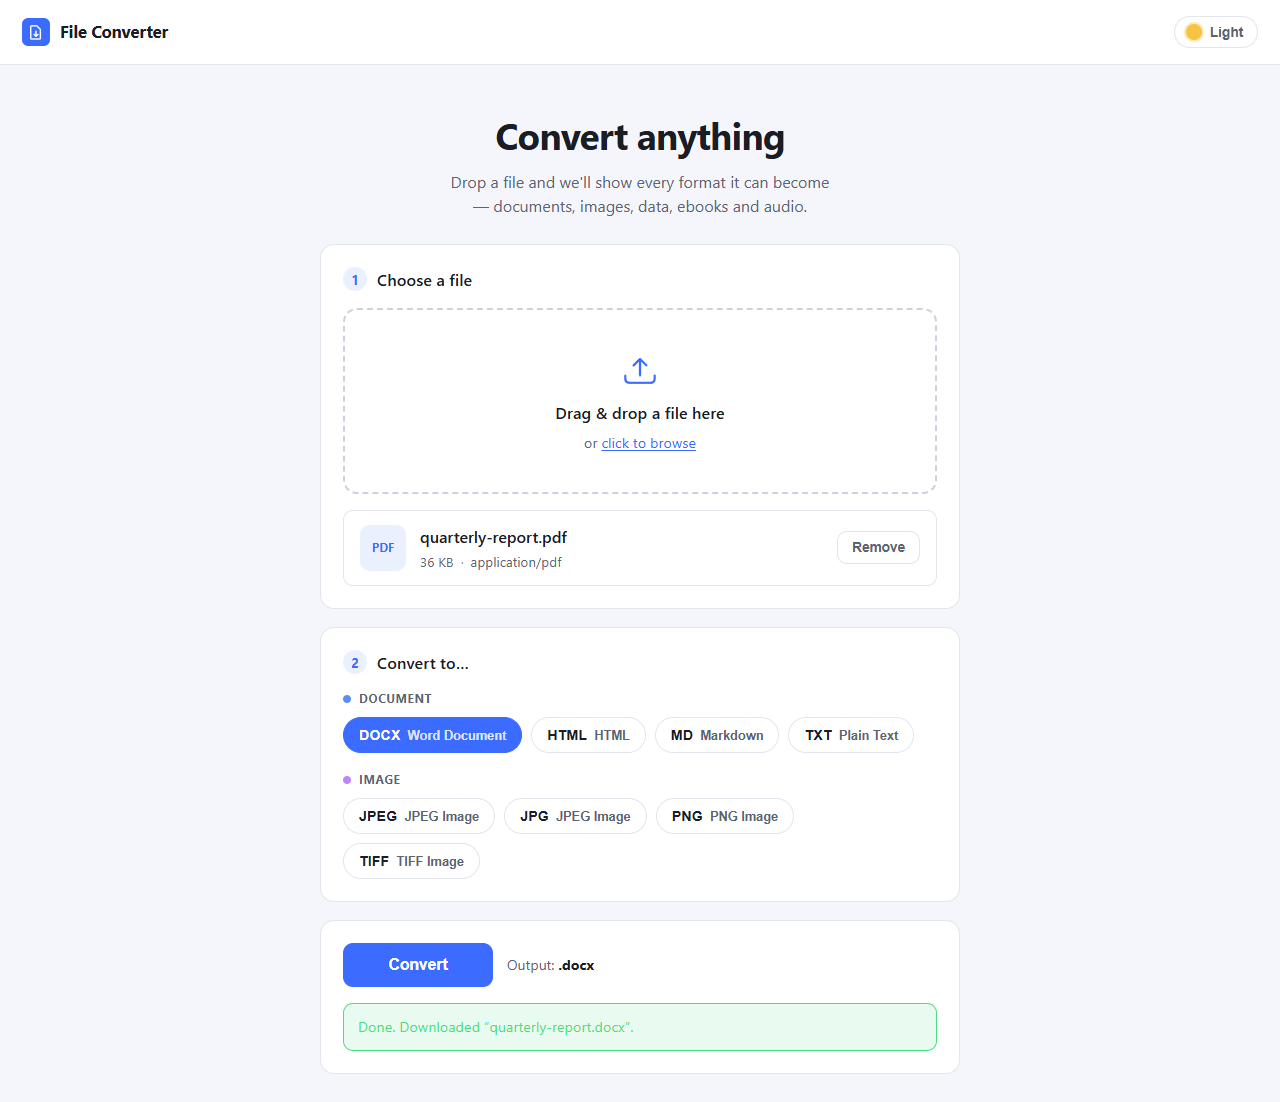
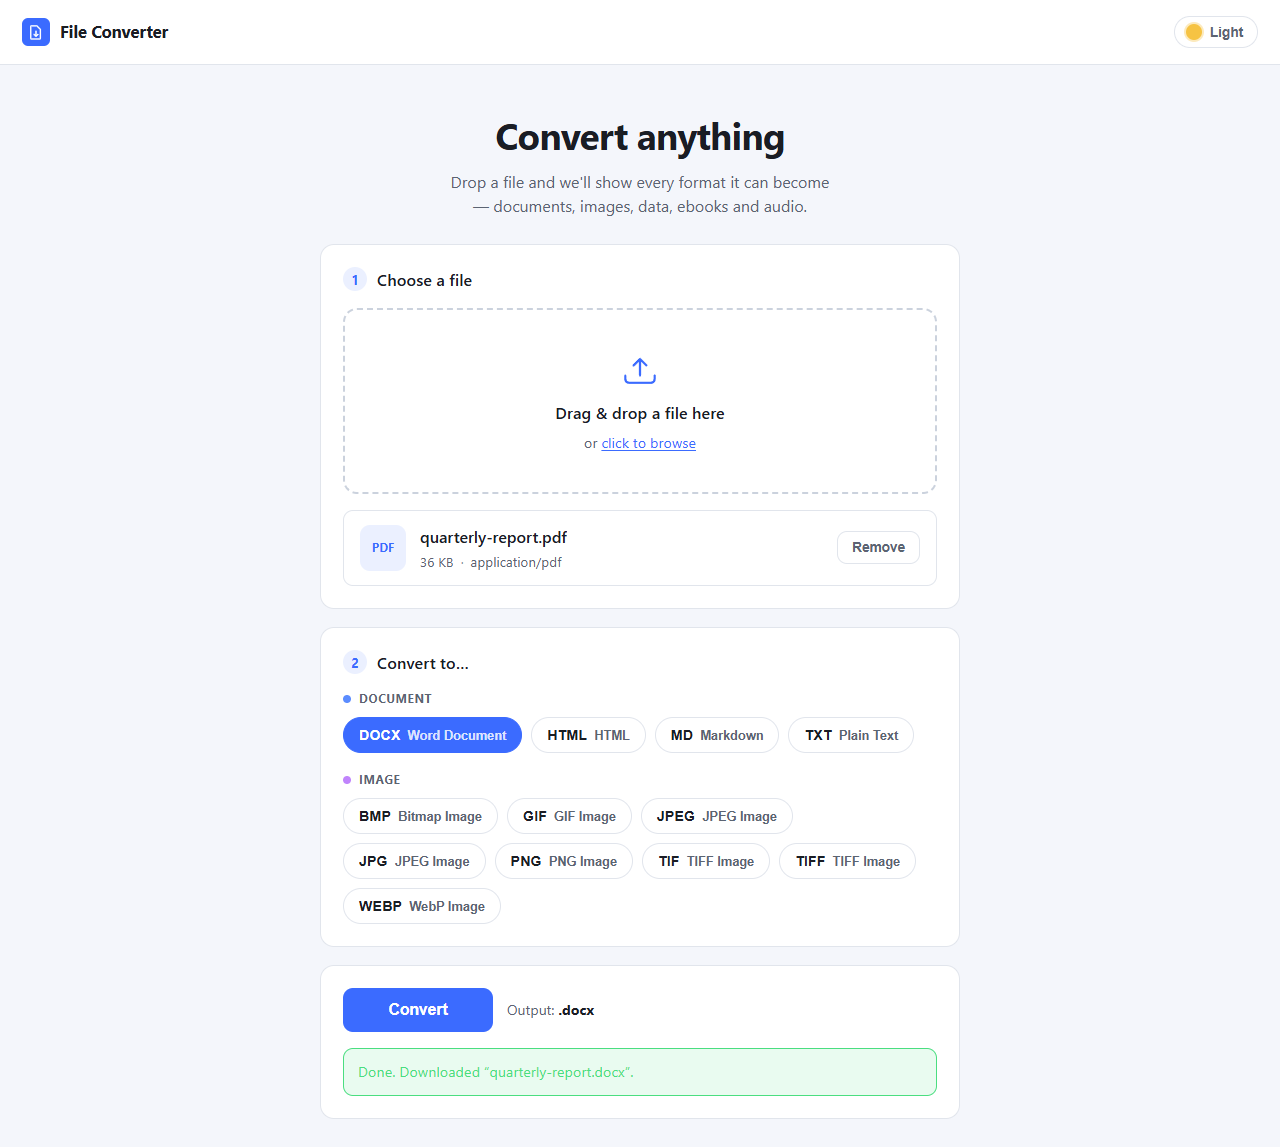
Update the README for the sandbox, non-root image, lint and CI
- Drop the known issues that are fixed: leaked outputs and LibreOffice
  profiles, the false "Conversion failed" for .json, the HTML 413 page,
  pandoc without --sandbox and the root container.
- Document what the security posture now is and isn't, DEMO_PROXY_HOPS,
  PORT, the ./data default, pinned dependencies, lint, CI and the
  dependency upgrade steps.
- Recount the pairs (319: PDF now converts to every raster format) and
  retake the PDF -> DOCX screenshot, which showed only four image targets.
- Point the highlights and structure tree at the fixup package, SPEC.md,
  pyproject.toml and the workflow.

diff --git a/README.md b/README.md
@@ -2,7 +2,7 @@
 
 Drop a file, see every format it can become, download the result: one self-hosted web app for documents, images, data, ebooks and audio.
 
-File Converter puts Pandoc, LibreOffice, Calibre, ffmpeg and a few Python libraries behind one small Flask API and a drag-and-drop page, so you don't have to remember which tool converts what. The Docker image installs all of them. It is for people who would rather not upload their files to an online converter, and it is built for running on your own machine or a trusted network. It covers 38 file extensions and 315 source → target pairs, and its PDF → Word path repairs several kinds of layout damage that raw pdf2docx output produces.
+File Converter puts Pandoc, LibreOffice, Calibre, ffmpeg and a few Python libraries behind one small Flask API and a drag-and-drop page, so you don't have to remember which tool converts what. The Docker image installs all of them. It is for people who would rather not upload their files to an online converter, and it is built for running on your own machine or a trusted network. It covers 38 file extensions and 319 source → target pairs, and its PDF → Word path repairs several kinds of layout damage that raw pdf2docx output produces.
 
 ![File Converter in the dark theme: harbor-sunset.png was dropped in, the page lists PDF plus seven image targets, WEBP is selected, and a green banner reads Done. Downloaded harbor-sunset.webp](docs/screenshot.png)
 
@@ -17,43 +17,44 @@ File Converter puts Pandoc, LibreOffice, Calibre, ffmpeg and a few Python librar
 - [Getting started](#getting-started)
 - [API](#api)
 - [Configuration](#configuration)
-- [Tests](#tests)
-- [Security and known issues](#security-and-known-issues)
+- [Tests, lint and CI](#tests-lint-and-ci)
+- [Security and limitations](#security-and-limitations)
 - [License](#license)
 - [Author](#author)
 
 ## Features
 
-- **Drag and drop or browse.** The page offers only the targets the server has registered for that file's extension, grouped by family.
-- **38 extensions, 315 conversion pairs.** Both counts come from `converters.matrix()`, and aliases such as `jpg`/`jpeg` and `yml`/`yaml` are counted separately.
+- **Drag and drop or browse.** The page offers only the targets the server has registered for that file's extension, grouped by family, and refuses a file over the upload cap before sending it.
+- **38 extensions, 319 conversion pairs.** Both counts come from `converters.matrix()`, and aliases such as `jpg`/`jpeg` and `yml`/`yaml` are counted separately.
 - **PDF → DOCX with layout repair.** Repeated letterheads and footers become real Word headers and footers, with page numbers turned into `PAGE`/`NUMPAGES` fields. Side-by-side rows become tab stops, ruled tables keep their drawn column widths, and merged list lines are split again. When LibreOffice is installed, documents of up to 50 pages are re-rendered to check that no page spills onto an extra one.
-- **Clear errors instead of broken output.** PDF → DOCX rejects password-protected PDFs, and scanned PDFs with no text layer, before it starts. A missing engine is named in the error.
+- **Clear errors instead of broken output.** PDF → DOCX rejects password-protected PDFs, and scanned PDFs with no text layer, before it starts. A missing engine or library is named in the error. Every `/convert` error is JSON, and an unexpected one returns a generic message while the details go to the server log.
+- **Nothing left on disk.** The upload and the converted file are deleted as soon as the download finishes or the conversion fails.
 - **Small JSON API** (`/api/formats`, `/convert`, `/health`) that works from `curl`. `/health` and the page footer show a build stamp.
 - **Light and dark themes**, keyboard support (arrow keys move between format chips; Enter or Space opens the file picker), and a skip link.
 - **Opt-in `DEMO_MODE`.** It adds a per-IP hourly limit, a daily budget, a smaller upload cap and blocked types.
 
-![PDF to DOCX in the light theme: quarterly-report.pdf was dropped in, the page lists DOCX, HTML, Markdown and TXT under Document and JPEG, JPG, PNG and TIFF under Image, DOCX is selected, and a green banner confirms quarterly-report.docx was downloaded](docs/screenshot-pdf-to-docx.png)
+![PDF to DOCX in the light theme: quarterly-report.pdf was dropped in, the page lists DOCX, HTML, Markdown and TXT under Document and eight raster formats under Image, DOCX is selected, and a green banner confirms quarterly-report.docx was downloaded](docs/screenshot-pdf-to-docx.png)
 
 ## Supported conversions
 
 | Family | Formats | Engine |
 |---|---|---|
 | Documents | md, markdown, rst, txt, html, htm, docx, odt, rtf, tex, latex, epub: any ↔ any; all → pdf | Pandoc; WeasyPrint as the PDF engine; LibreOffice for docx/odt/rtf → pdf when installed |
-| PDF as a source | pdf → txt, md, html, docx; pdf → png, jpg, jpeg, tiff (first page) | PyMuPDF; pdf2docx plus the layout fixup |
+| PDF as a source | pdf → txt, md, html, docx; pdf → png, jpg, jpeg, webp, gif, bmp, tiff, tif (first page) | PyMuPDF; pdf2docx plus the layout fixup |
 | Images | png, jpg, jpeg, webp, gif, bmp, tiff, tif: any ↔ any; svg → any raster; raster → pdf | Pillow, CairoSVG |
 | Data | csv, tsv, json, xlsx, xls, yaml, yml → csv, tsv, json, xlsx, yaml, yml; csv, tsv, json, xlsx, xls → html, md tables | pandas, openpyxl, xlrd, PyYAML |
 | Ebooks | epub, mobi, azw3, fb2: any ↔ any; mobi, azw3, fb2 → pdf | Calibre (`ebook-convert`) |
 | Audio | mp3, wav, ogg, flac, m4a, aac: any ↔ any | ffmpeg |
 
-`xls` and `svg` are source-only. Images, data and PDF extraction need no system binaries.
+`xls` and `svg` are source-only, and only the first worksheet of a workbook is read. CSV and TSV saved by Excel on Windows (Windows-1252) and JSON or YAML with a UTF-8 byte-order mark are accepted. Images, data and PDF extraction need no system binaries.
 
 ## Engineering highlights
 
 1. **A registry is the single source of truth.** Each family module calls `register()` / `register_many()` at import time. The Flask layer never hard-codes a format: it asks `matrix()` what is possible and `get_converter()` for the handler, and the UI renders whatever `/api/formats` returns. Adding a format means writing one handler, `fn(in_path, out_path)`, and one registration line. See [`converters/registry.py`](converters/registry.py).
-2. **External tools have one exit point.** Every call to pandoc, soffice, ebook-convert and ffmpeg goes through `engine.run()`. It passes an argument list (never `shell=True`), enforces a timeout (300 s, or 240 s for LibreOffice), and turns a non-zero exit into a `ConversionError` that carries the tool's stderr. Each LibreOffice call gets its own profile directory, so parallel gunicorn workers don't fight over the profile lock. See [`converters/engine.py`](converters/engine.py).
-3. **Upload names never become paths.** The source extension must be a known format and the pair must be registered before anything is written. On disk the job is a random UUID, and the user's filename survives only as the download name, after `secure_filename`. See [`web_app.py`](web_app.py).
-4. **The PDF → DOCX repair is geometry-driven.** PyMuPDF reads the source layout, and python-docx repairs what pdf2docx produced. A verify-and-retry loop then re-renders the DOCX with LibreOffice at up to three spacing levels, the first one untouched, and stops as soon as the page counts match. If none matches, it keeps the closest. Each layout that once broke is a generated PDF fixture with its own test. See [`converters/pdf_docx_fixup.py`](converters/pdf_docx_fixup.py), [`converters/documents.py`](converters/documents.py), [`tests/pdf_fixtures.py`](tests/pdf_fixtures.py) and [`tests/test_pdf_layout.py`](tests/test_pdf_layout.py).
-5. **Tests skip rather than fail.** Heavy libraries are imported inside the handlers, so the package still imports when one is missing. Tests that need a missing binary or library skip and give the reason. See [`tests/conftest.py`](tests/conftest.py).
+2. **External tools have one exit point, and uploads can't reach server files.** Every call to pandoc, soffice, ebook-convert and ffmpeg goes through `engine.run()`, which passes an argument list (never `shell=True`), enforces a timeout and turns a non-zero exit into a `ConversionError` that carries the tool's stderr. Pandoc always runs with `--sandbox` and WeasyPrint may only fetch `data:` URIs, so an `<img src="/etc/passwd">`, a LaTeX `\input` or an RST `include` in an upload can't pull a server file into the output; tests prove each case. Each LibreOffice call gets its own profile directory, deleted afterwards. See [`converters/engine.py`](converters/engine.py) and [`tests/test_documents.py`](tests/test_documents.py).
+3. **Upload names never become paths.** The source extension must be a known format and the pair must be registered before anything is written. On disk the job is a random UUID. The user's filename survives only as the download name, with any path part dropped and characters Windows forbids replaced; accents and non-Latin scripts are kept. The file is streamed through the response so that closing it deletes it. See [`web_app.py`](web_app.py).
+4. **The PDF → DOCX repair is geometry-driven.** PyMuPDF reads the source layout, and python-docx repairs what pdf2docx produced, in focused modules for analysis, header/footer bands, columns, tables and paragraphs. Each repair is best-effort: a failure falls back to the unrepaired output and is logged with its traceback. A verify-and-retry loop then re-renders the DOCX with LibreOffice at up to three spacing levels, the first one untouched, and stops as soon as the page counts match. Each layout that once broke is a generated PDF fixture with its own test. See [`converters/pdf_docx_fixup/`](converters/pdf_docx_fixup/), [`converters/documents.py`](converters/documents.py), [`tests/pdf_fixtures.py`](tests/pdf_fixtures.py) and [`tests/test_pdf_layout.py`](tests/test_pdf_layout.py).
+5. **Tests skip rather than fail, and CI runs them all.** Heavy libraries are imported inside the handlers, so the package still imports when one is missing, and tests that need a missing binary skip with the reason. CI runs the suite without engines on every pull request and, on `main`, inside the Docker image, where nothing may skip. See [`tests/conftest.py`](tests/conftest.py) and [`.github/workflows/ci.yml`](.github/workflows/ci.yml).
 
 ## Tech stack and design decisions
 
@@ -63,12 +64,14 @@ flowchart LR
   API --> REG["Registry<br/>converters/registry.py"]
   REG --> H["Family handlers<br/>documents, images, data, ebooks, audio"]
   H --> ENG["engine.run()<br/>argv list + timeout"]
-  ENG --> BIN["pandoc, soffice,<br/>ebook-convert, ffmpeg"]
+  ENG --> BIN["pandoc --sandbox, soffice,<br/>ebook-convert, ffmpeg"]
   H --> LIB["Pillow, CairoSVG, PyMuPDF,<br/>pdf2docx, pandas"]
 ```
 
 - **Flask + gunicorn (2 sync workers, 300 s timeout).** The work is CPU- and subprocess-bound, so each conversion simply runs inside its request.
 - **The best tool for each family.** Pandoc is the text hub, with WeasyPrint as its PDF engine so no TeX install is needed. LibreOffice handles Office → PDF for fidelity, and the image ships Calibri/Cambria-compatible fonts so its pages break the way Word's do.
+- **An unprivileged container.** gunicorn runs as the `converter` user (uid 10001), which can write only to `DATA_DIR`, its home directory and the shared temp directories.
+- **Pinned dependencies.** `requirements.web.txt` pins the direct Python dependencies and pulls in `constraints.txt`, which locks everything they install. Pandoc is the official 3.11 release, pinned by checksum.
 - **Vanilla JS, no build step.** The page loads nothing from third parties. Docker is the main way to run it, because the engines are system binaries.
 
 ```text
@@ -79,21 +82,26 @@ converters/
   registry.py            FORMATS, register(), get_converter(), matrix()
   engine.py              subprocess helpers for pandoc, soffice, ffmpeg, ebook-convert
   documents.py           Pandoc text hub, → PDF, PDF → txt/md/html/docx
-  pdf_docx_fixup.py      PDF → DOCX layout repair
+  pdf_docx_fixup/        PDF → DOCX layout repair, one module per repair
   images.py, data.py,    one module per remaining family
   ebooks.py, audio.py
 templates/, static/      the page, its script and its styles
 tests/                   pytest suite and generated PDF fixtures
 docs/                    screenshots
+app.py                   older desktop Markdown → DOCX tool (see Limitations)
+SPEC.md                  design notes: handler contract, module boundaries, API
 Dockerfile               image with every engine
-requirements.web.txt     runtime Python dependencies (requirements.dev.txt adds pytest)
+requirements.web.txt     pinned runtime dependencies (+ constraints.txt)
+requirements.dev.txt     adds pytest and ruff
+pyproject.toml           ruff and pytest settings
+.github/workflows/ci.yml lint, tests, and the full suite in Docker
 ```
 
 ## Getting started
 
 ### Docker (recommended: every engine included)
 
-Requires Docker (tested with Docker Engine 29.5). The image is about 2.6 GB, since it bundles Pandoc, LibreOffice, Calibre and ffmpeg.
+Requires Docker (tested with Docker Engine 29.5). The image is about 2.5 GB, since it bundles Pandoc, LibreOffice, Calibre and ffmpeg.
 
 ```bash
 git clone https://github.com/jadrianlg16/file-converter.git
@@ -101,29 +109,31 @@ cd file-converter
 docker build -t file-converter . && docker run --rm -p 127.0.0.1:5007:5007 file-converter
 ```
 
-Open <http://localhost:5007>. The port is published on `127.0.0.1` only; see [Security](#security-and-known-issues) before you expose it any wider. The engines come from unpinned Debian packages.
+Open <http://localhost:5007>. The port is published on `127.0.0.1` only; see [Security](#security-and-limitations) before you expose it any wider. LibreOffice, Calibre and ffmpeg come from unpinned Debian packages.
 
 ### Local Python
 
-Requires Python 3.12. To get the families that use them, put `pandoc`, LibreOffice (`soffice`), Calibre (`ebook-convert`) and `ffmpeg` on your `PATH`. Without them, images, data and PDF extraction still work, and other pairs return a clear error. SVG input also needs the Cairo system library.
+Requires Python 3.12. To get the families that use them, put Pandoc 3.11, LibreOffice (`soffice`), Calibre (`ebook-convert`) and `ffmpeg` on your `PATH`. Every pandoc call uses `--sandbox`, which older builds such as Debian's 3.1.11 package can't combine with docx, odt or epub output. Without the engines, images, data and PDF extraction still work, and other pairs return a clear error. SVG input also needs the Cairo system library.
 
 ```bash
-python3.12 -m venv .venv                          # Windows: py -3.12 -m venv .venv
-source .venv/bin/activate                         # Windows PowerShell: .venv\Scripts\Activate.ps1
+python3.12 -m venv .venv          # Windows: py -3.12 -m venv .venv
+source .venv/bin/activate         # Windows PowerShell: .venv\Scripts\Activate.ps1
 pip install -r requirements.web.txt
-DATA_DIR=./data flask --app web_app run --port 5007   # PowerShell: $env:DATA_DIR="data"; flask --app web_app run --port 5007
+flask --app web_app run --port 5007
 ```
 
-Set `DATA_DIR` to a writable folder, because the default, `/app/data`, is the container path. `flask run` listens on `127.0.0.1`. `python web_app.py` also works, but it binds to `0.0.0.0` (every interface).
+Uploads go to `./data` next to `web_app.py` unless `DATA_DIR` says otherwise. `flask run` listens on `127.0.0.1`. `python web_app.py` also works, but it binds to `0.0.0.0` (every interface).
 
 ## API
 
 | Method and path | Request | Response |
 |---|---|---|
 | `GET /` | | The page |
-| `GET /api/formats` | | `{"formats": {"<ext>": {"name", "category", "targets": [{"ext", "name", "category"}]}}}`, plus `"demo"` when `DEMO_MODE=1` |
-| `POST /convert` | multipart `file` + `target` (an extension) | The converted file as an attachment, or `{"error": "..."}` with 400 (bad input or unsupported pair), 403 (blocked by `DEMO_BLOCK`), 422 (conversion failed), 429 (demo limit) or 500/501. An oversized upload gets 413. |
+| `GET /api/formats` | | `{"formats": {"<ext>": {"name", "category", "targets": [{"ext", "name", "category"}]}}, "maxUploadMb": N}`, plus `"demo"` when `DEMO_MODE=1` |
+| `POST /convert` | multipart `file` + `target` (an extension) | The converted file as an attachment with status 200, or `{"error": "..."}` with 400 (bad input or unsupported pair), 403 (blocked by `DEMO_BLOCK`), 413 (file too large), 422 (conversion failed), 429 (demo limit), 500 (unexpected error) or 501 |
 | `GET /health` | | `{"status": "ok", "formats": <number of source formats>, "build": "<stamp>"}` |
+
+Any 2xx from `/convert` is the file, including `.json` outputs, which are served as `application/json`.
 
 ```bash
 curl -F file=@notes.md -F target=pdf -o notes.pdf http://localhost:5007/convert
@@ -135,41 +145,49 @@ Every variable is optional.
 
 | Variable | Default | Purpose |
 |---|---|---|
-| `DATA_DIR` | `/app/data` | Working folder for uploads, outputs and the demo counter database. Set it when running outside Docker. |
+| `DATA_DIR` | `./data` next to `web_app.py` (the image sets `/app/data`) | Working folder for in-flight uploads and outputs, and the demo counter database. |
 | `MAX_UPLOAD_MB` | `200` | Upload cap in MB. Ignored when `DEMO_MODE=1`. |
+| `PORT` | `5007` | Port for `python web_app.py` only; the image always runs gunicorn on 5007. |
 | `DEMO_MODE` | off | `1` turns on the demo limits below. |
 | `DEMO_MAX_UPLOAD_MB` | `10` | Upload cap in MB while demo mode is on. |
 | `DEMO_RATE_PER_HOUR` | `5` | Conversions per client IP per rolling hour. |
 | `DEMO_DAILY_BUDGET` | `200` | Conversions per UTC day, all clients combined. |
 | `DEMO_BLOCK` | empty | Comma-separated extensions refused as a source or a target, e.g. `wav,flac`. |
 | `DEMO_REPO_URL` | `https://github.com/` | Link shown in limit messages and the demo banner. |
+| `DEMO_PROXY_HOPS` | `1` | Reverse proxies in front of the app that append to `X-Forwarded-For`; `0` ignores the header. |
 
 Demo counters live in SQLite under `DATA_DIR`, so gunicorn workers share them and they survive restarts.
 
-## Tests
+## Tests, lint and CI
 
 ```bash
 pip install -r requirements.dev.txt
 pytest -rs
+ruff check . && ruff format --check .
 ```
 
-The suite covers the registry wiring, the `/health` and `/api/formats` endpoints, each converter family against small fixtures generated inside the tests, the PDF → DOCX layout repairs, and the demo guard. Tests that need `pandoc`, `soffice`, `ebook-convert` or `ffmpeg` skip when the binary is missing, and `-rs` prints each reason (for example `pandoc not installed`). To run all of them, use the image, which has every engine:
+The suite covers the registry wiring, the HTTP layer (status codes, JSON errors, download names, file cleanup), each converter family against small fixtures generated inside the tests, the pandoc sandbox, the PDF → DOCX layout repairs, and the demo guard. Tests that need `pandoc`, `soffice`, `ebook-convert` or `ffmpeg` skip when the binary is missing, and `-rs` prints each reason (for example `pandoc not installed`). To run all of them, use the image, which has every engine:
 
 ```bash
-docker run --rm -v "$PWD/tests:/app/tests:ro" file-converter sh -c "pip install -q pytest && python -m pytest -q tests"
+docker run --rm -v "$PWD/tests:/app/tests:ro" file-converter sh -c "pip install -q --user --no-warn-script-location pytest==9.1.1 && python -m pytest -q -rs -p no:cacheprovider tests"
 ```
 
-## Security and known issues
+[`ci.yml`](.github/workflows/ci.yml) runs the install, `ruff` and `pytest` commands above on every pull request and push to `main`. On pushes to `main`, and when started by hand, it also builds the image, runs the full suite inside it and fails if any test skipped.
+
+To upgrade a dependency, change its pin in `requirements.web.txt`, install `requirements.dev.txt` into a fresh venv, run the suite, and regenerate `constraints.txt` from that venv's `pip freeze`, leaving out the packages pinned in the requirements files.
+
+## Security and limitations
 
 **This app is not hardened for untrusted uploads. Run it locally or on a trusted network, and don't expose it to the internet as-is.**
 
-- **Trust boundary.** Pandoc runs without `--sandbox` and the container runs as root, so treat every upload as trusted input.
-- **`DEMO_MODE` limits volume, not risk.** It caps rate, daily volume, upload size and file types, but it does not sandbox parsing. Its per-IP limit trusts `X-Forwarded-For`, so run it behind a proxy that sets that header.
-- **Known bugs.** Converted outputs in `DATA_DIR` and LibreOffice's temp profiles are not cleaned up, so clear them now and then. The page reports a failed conversion when the target is `.json`, even though the server returned the file. An oversized upload gets Flask's HTML 413 page instead of JSON.
+- **What is in place.** Pandoc runs sandboxed and WeasyPrint only loads `data:` URIs, so documents can't read server files through them. The container runs as an unprivileged user. Uploads are stored under random names and deleted after each request.
+- **What isn't.** LibreOffice, Calibre, ffmpeg, Pillow, PyMuPDF and pandas parse uploads inside the container with no further isolation, and there is no per-conversion memory or CPU limit beyond the timeouts.
+- **`DEMO_MODE` limits volume, not risk.** It caps rate, daily volume, upload size and file types, but it does not sandbox parsing. Its per-IP limit trusts only the last `DEMO_PROXY_HOPS` entries of `X-Forwarded-For`, so set that to the number of proxies in front of the app.
+- **Chromium in Calibre.** Calibre renders ebook → PDF with Chromium. The image no longer turns Chromium's sandbox off, which was only needed while the container ran as root; this was tested with Docker Desktop. If ebook → PDF fails on your host with a Chromium sandbox error, run the container with `-e QTWEBENGINE_CHROMIUM_FLAGS="--no-sandbox --disable-gpu"`.
 - **Scope.**
   - PDF → editable formats is best-effort with no OCR, and PDF → image renders the first page only.
   - There are no accounts and no job queue.
-  - `app.py` is an older desktop UI, kept for reference and not maintained.
+  - `app.py` is an older desktop Markdown → DOCX tool with its own `requirements.txt`, independent of the web app and not covered by the tests.
 
 ## License
 
